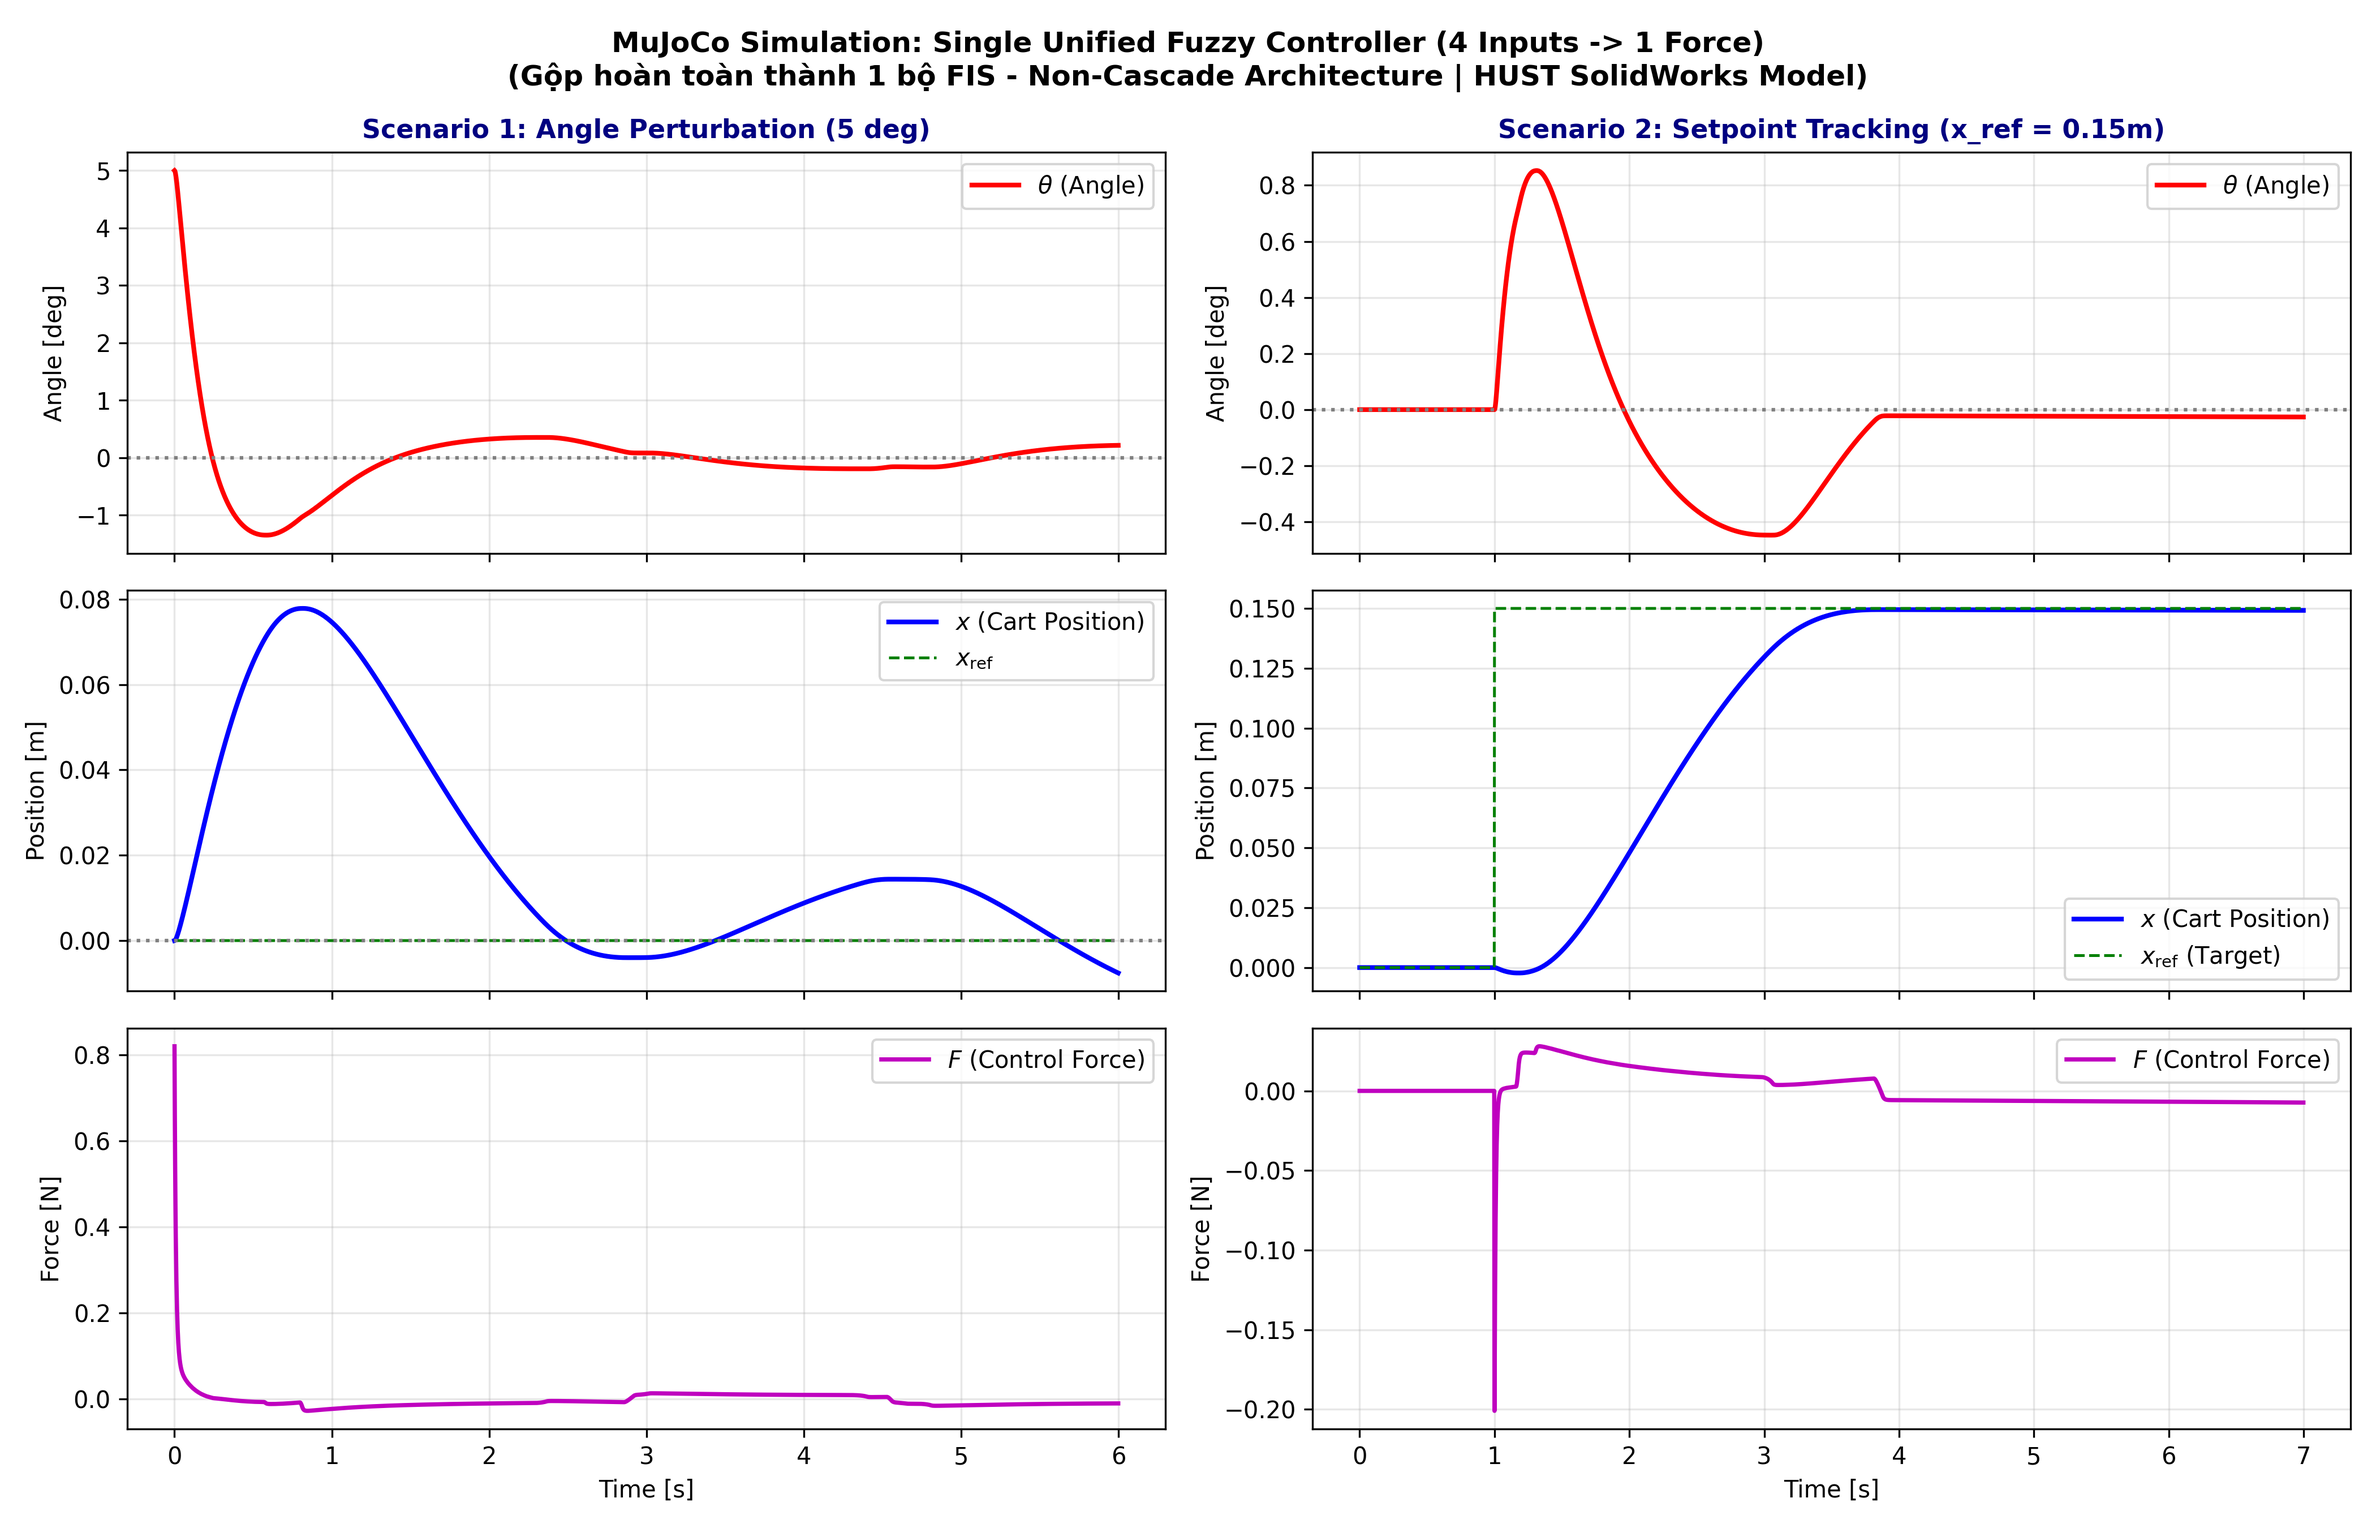
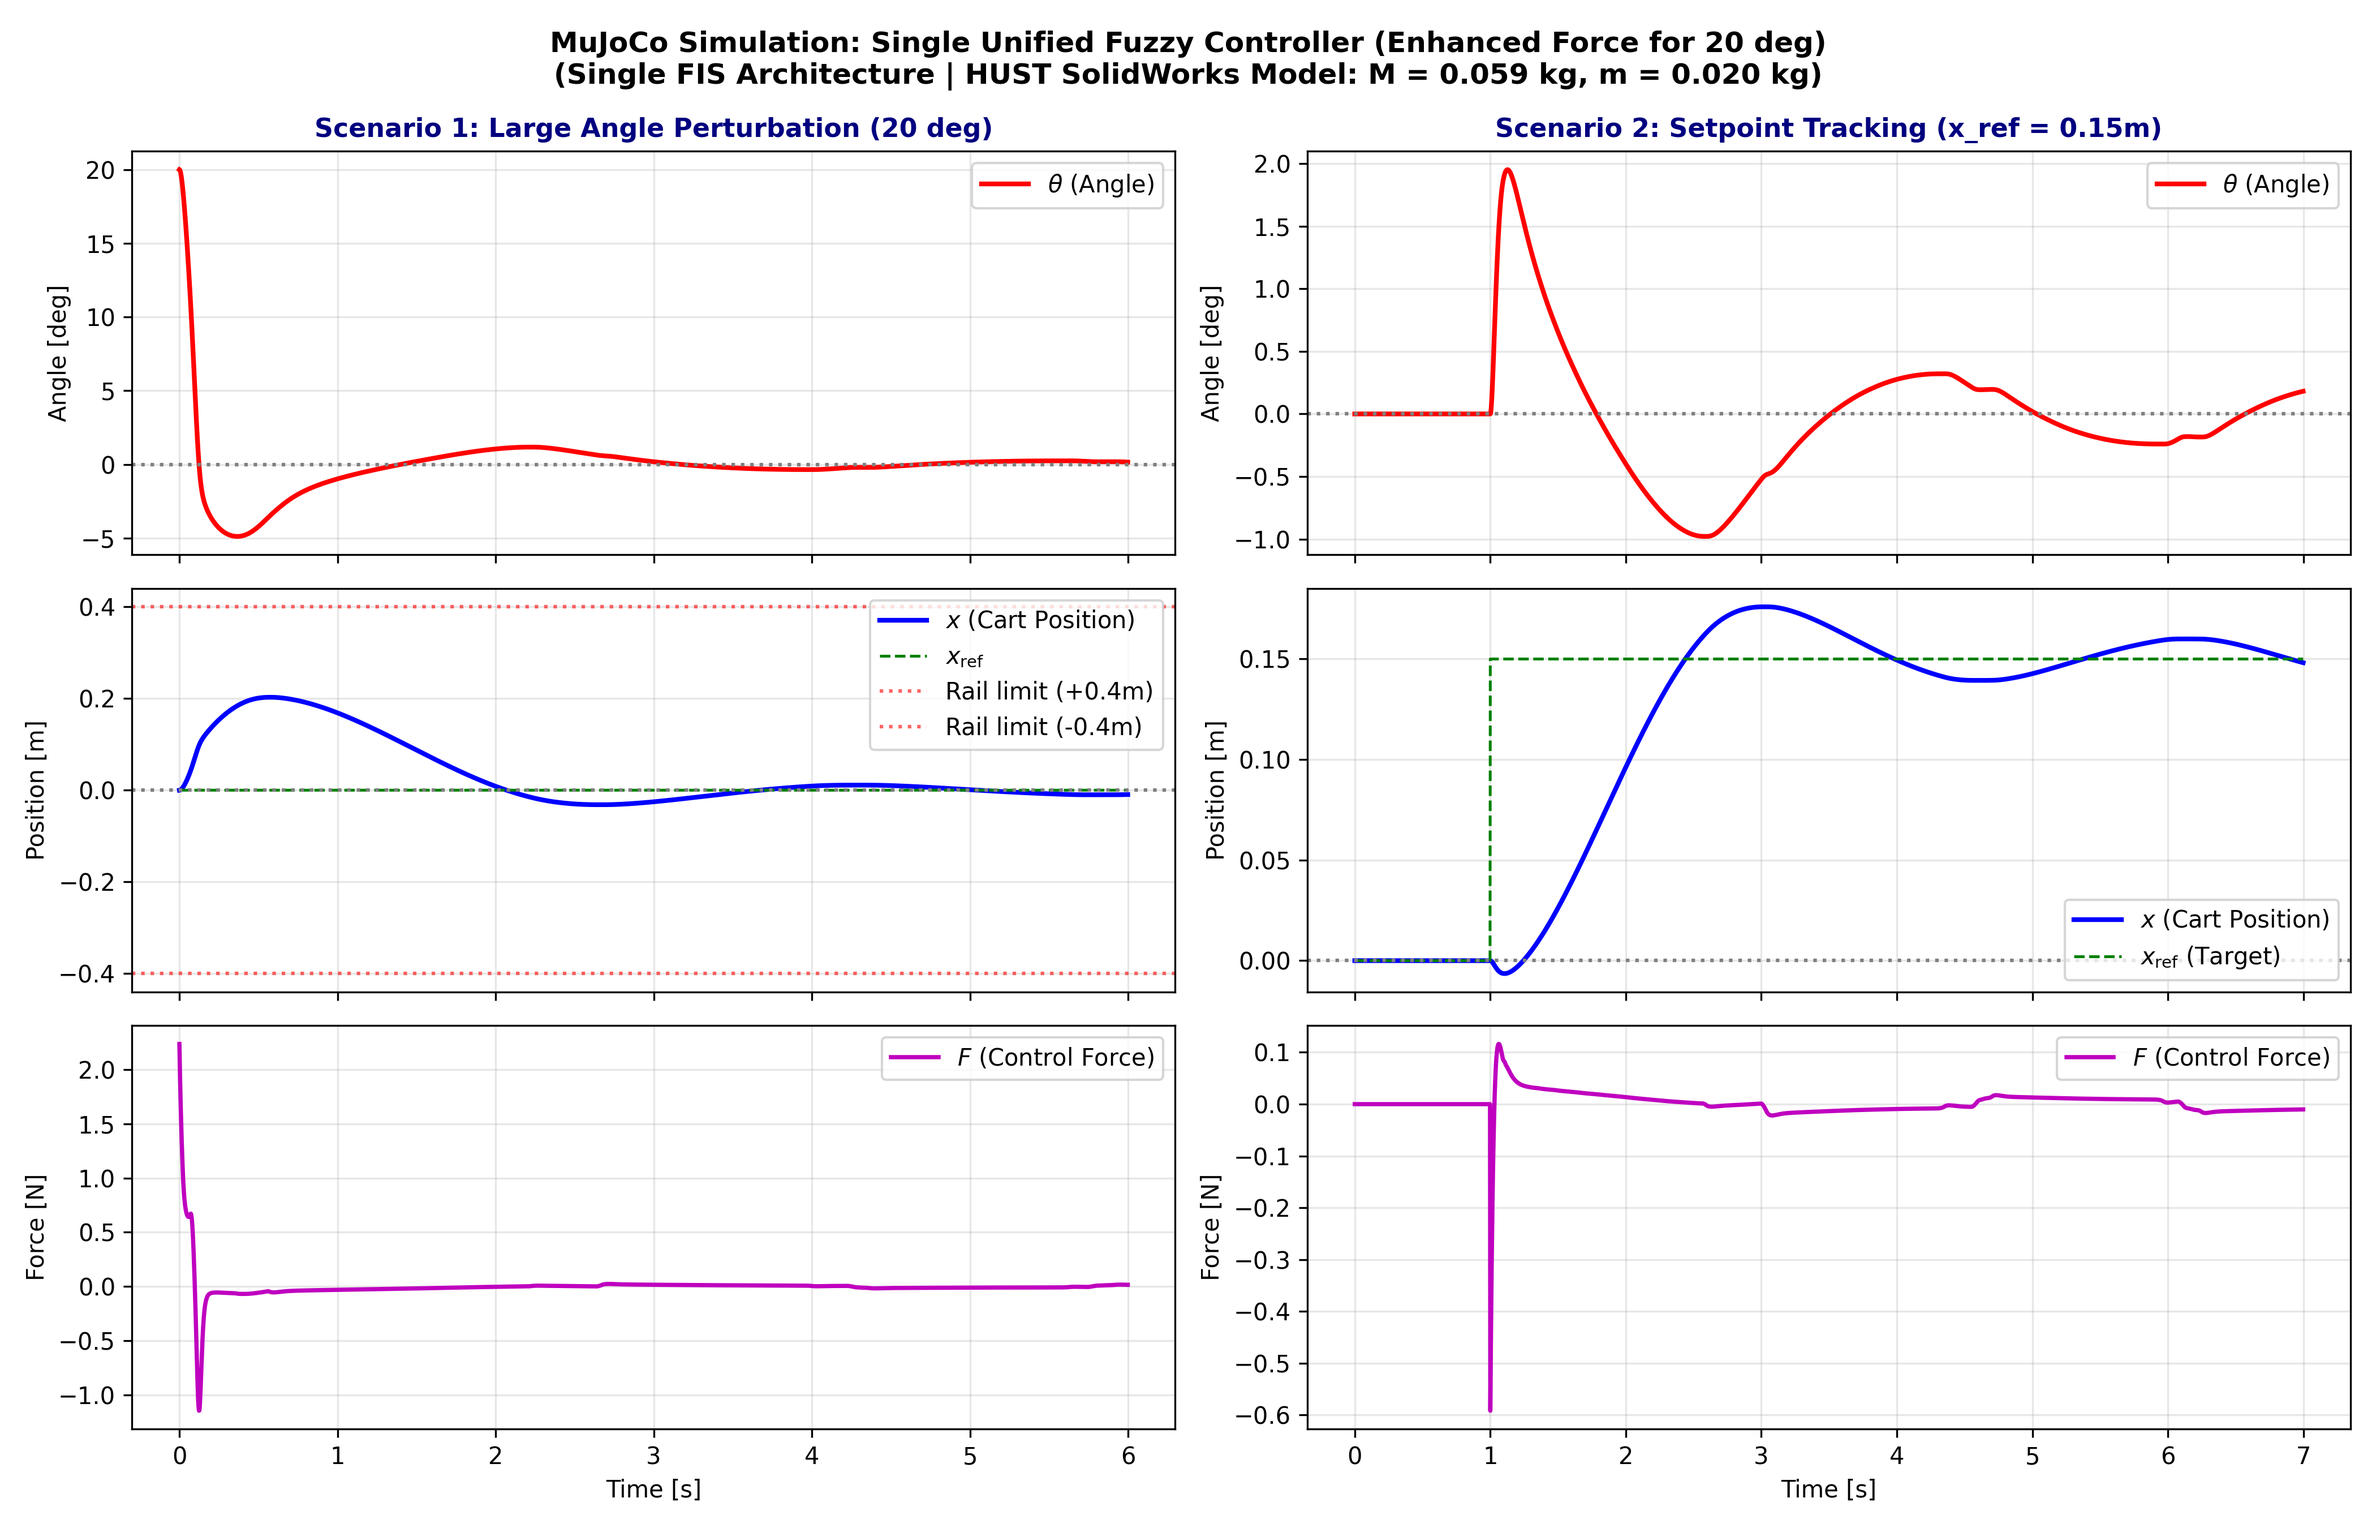
feat: Enhance force authority to recover from 20-25 deg initial tilt (Single Unified FIS)

diff --git a/cartpole_single_fuzzy.m b/cartpole_single_fuzzy.m
@@ -24,17 +24,17 @@ cpFIS = mamfis(...
     'AggregationMethod', 'sum', ...
     'DefuzzificationMethod', 'centroid');
 
-%% 2. Khai báo Input 1: Theta (rad) - Góc nghiêng con lắc
+%% 2. Khai báo Input 1: Theta (rad) - Góc nghiêng con lắc (Mở rộng cho góc lớn đến 20-25 độ)
 cpFIS.Inputs(1).Name = 'Theta';
 cpFIS.Inputs(1).Range = [-pi, pi];
 
 cpFIS.Inputs(1).MembershipFunctions(1).Name = 'Negative';
 cpFIS.Inputs(1).MembershipFunctions(1).Type = 'zmf';
-cpFIS.Inputs(1).MembershipFunctions(1).Parameters = [-0.15, 0.15];
+cpFIS.Inputs(1).MembershipFunctions(1).Parameters = [-0.20, 0.20];
 
 cpFIS.Inputs(1).MembershipFunctions(2).Name = 'Positive';
 cpFIS.Inputs(1).MembershipFunctions(2).Type = 'smf';
-cpFIS.Inputs(1).MembershipFunctions(2).Parameters = [-0.15, 0.15];
+cpFIS.Inputs(1).MembershipFunctions(2).Parameters = [-0.20, 0.20];
 
 %% 3. Khai báo Input 2: Theta_dot (rad/s) - Vận tốc góc con lắc
 cpFIS.Inputs(2).Name = 'Theta_dot';
@@ -42,11 +42,11 @@ cpFIS.Inputs(2).Range = [-15, 15];
 
 cpFIS.Inputs(2).MembershipFunctions(1).Name = 'Negative';
 cpFIS.Inputs(2).MembershipFunctions(1).Type = 'zmf';
-cpFIS.Inputs(2).MembershipFunctions(1).Parameters = [-2.5, 2.5];
+cpFIS.Inputs(2).MembershipFunctions(1).Parameters = [-3.5, 3.5];
 
 cpFIS.Inputs(2).MembershipFunctions(2).Name = 'Positive';
 cpFIS.Inputs(2).MembershipFunctions(2).Type = 'smf';
-cpFIS.Inputs(2).MembershipFunctions(2).Parameters = [-2.5, 2.5];
+cpFIS.Inputs(2).MembershipFunctions(2).Parameters = [-3.5, 3.5];
 
 %% 4. Khai báo Input 3: x (m) - Sai số vị trí xe (x - x_ref)
 cpFIS.Inputs(3).Name = 'x';
@@ -72,45 +72,43 @@ cpFIS.Inputs(4).MembershipFunctions(2).Name = 'Positive';
 cpFIS.Inputs(4).MembershipFunctions(2).Type = 'smf';
 cpFIS.Inputs(4).MembershipFunctions(2).Parameters = [-0.5, 0.5];
 
-%% 6. Khai báo Output: Force (N) - Lực tác động lên xe
+%% 6. Khai báo Output: Force (N) - Tăng lực điều khiển đáp ứng góc 20 độ
 cpFIS.Outputs(1).Name = 'Force';
-cpFIS.Outputs(1).Range = [-10, 10];
+cpFIS.Outputs(1).Range = [-12, 12];
 
-% Negative Large (-8 N): Lực hãm / đẩy cực mạnh
+% Negative Large (-10 N): Lực hãm / đẩy cực mạnh (toàn tải động cơ)
 cpFIS.Outputs(1).MembershipFunctions(1).Name = 'NL';
 cpFIS.Outputs(1).MembershipFunctions(1).Type = 'gbellmf';
-cpFIS.Outputs(1).MembershipFunctions(1).Parameters = [3.0, 2.0, -8.0];
+cpFIS.Outputs(1).MembershipFunctions(1).Parameters = [3.0, 2.0, -10.0];
 
-% Negative Medium (-3.5 N): Lực vừa
+% Negative Medium (-7 N): Lực phản xạ góc mạnh
 cpFIS.Outputs(1).MembershipFunctions(2).Name = 'NM';
 cpFIS.Outputs(1).MembershipFunctions(2).Type = 'gbellmf';
-cpFIS.Outputs(1).MembershipFunctions(2).Parameters = [2.0, 2.0, -3.5];
+cpFIS.Outputs(1).MembershipFunctions(2).Parameters = [2.5, 2.0, -7.0];
 
-% Positive Medium (+3.5 N): Lực vừa
+% Positive Medium (+7 N): Lực phản xạ góc mạnh
 cpFIS.Outputs(1).MembershipFunctions(3).Name = 'PM';
 cpFIS.Outputs(1).MembershipFunctions(3).Type = 'gbellmf';
-cpFIS.Outputs(1).MembershipFunctions(3).Parameters = [2.0, 2.0, 3.5];
+cpFIS.Outputs(1).MembershipFunctions(3).Parameters = [2.5, 2.0, 7.0];
 
-% Positive Large (+8 N): Lực hãm / đẩy cực mạnh
+% Positive Large (+10 N): Lực hãm / đẩy cực mạnh (toàn tải động cơ)
 cpFIS.Outputs(1).MembershipFunctions(4).Name = 'PL';
 cpFIS.Outputs(1).MembershipFunctions(4).Type = 'gbellmf';
-cpFIS.Outputs(1).MembershipFunctions(4).Parameters = [3.0, 2.0, 8.0];
+cpFIS.Outputs(1).MembershipFunctions(4).Parameters = [3.0, 2.0, 10.0];
 
 %% 7. Tập luật điều khiển hợp nhất (Unified Rule Base)
 % Nguyên lý vật lý:
-% - Nhóm góc (Theta, Theta_dot): Ưu tiên cao nhất (Weight = 1.0) giữ vững con lắc.
-% - Nhóm vị trí (x, x_dot): Ưu tiên vừa (Weight = 0.25). 
-%   Khi xe ở bên phải (x > 0), đẩy xe sang phải (PM) làm con lắc nghiêng sang trái,
-%   sau đó nhóm góc kéo xe chạy sang trái về lại gốc 0 (Cơ chế Nghiêng Để Lái hợp nhất).
+% - Nhóm góc (Theta, Theta_dot): Ưu tiên cao nhất (Weight = 1.0) giữ vững con lắc ngay cả ở 20 độ.
+% - Nhóm vị trí (x, x_dot): Trọng số phối hợp (Weight = 0.35) kéo xe giữ trong tầm ray (-0.4m, +0.4m).
 rules = [...
     "If Theta is Negative then Force is NM (1.0)"; ...
     "If Theta is Positive then Force is PM (1.0)"; ...
     "If Theta_dot is Negative then Force is NL (1.0)"; ...
     "If Theta_dot is Positive then Force is PL (1.0)"; ...
-    "If x is Negative then Force is NM (0.25)"; ...
-    "If x is Positive then Force is PM (0.25)"; ...
-    "If x_dot is Negative then Force is NL (0.25)"; ...
-    "If x_dot is Positive then Force is PL (0.25)"];
+    "If x is Negative then Force is NM (0.35)"; ...
+    "If x is Positive then Force is PM (0.35)"; ...
+    "If x_dot is Negative then Force is NL (0.35)"; ...
+    "If x_dot is Positive then Force is PL (0.35)"];
 
 cpFIS = addRule(cpFIS, rules);
 

diff --git a/run_simulation_single_fuzzy.py b/run_simulation_single_fuzzy.py
@@ -16,15 +16,15 @@ def run_simulation(scenario="perturbation", duration=6.0):
     ctrl = SingleUnifiedFuzzyController()
 
     if scenario == "perturbation":
-        # 5 degrees initial tilt (0.087 rad)
-        d.qpos[1] = np.deg2rad(5.0)
+        # 20 degrees initial tilt (0.349 rad)
+        d.qpos[1] = np.deg2rad(20.0)
         x_target_func = lambda t: 0.0
     elif scenario == "step":
         # Start at 0, step to 0.15 m at t = 1.0s
         d.qpos[1] = 0.0
         x_target_func = lambda t: 0.15 if t >= 1.0 else 0.0
     else:
-        d.qpos[1] = np.deg2rad(5.0)
+        d.qpos[1] = np.deg2rad(20.0)
         x_target_func = lambda t: 0.0
 
     t_vec = []
@@ -63,17 +63,17 @@ def run_simulation(scenario="perturbation", duration=6.0):
     }
 
 def generate_plots():
-    print("Running MuJoCo simulations with Single Unified Fuzzy Controller...")
+    print("Running MuJoCo simulations with Single Unified Fuzzy Controller (20 deg recovery)...")
     res1 = run_simulation("perturbation", duration=6.0)
     res2 = run_simulation("step", duration=7.0)
 
     fig, axs = plt.subplots(3, 2, figsize=(14, 9), sharex='col')
-    fig.suptitle("MuJoCo Simulation: Single Unified Fuzzy Controller (4 Inputs -> 1 Force)\n"
-                 "(Gộp hoàn toàn thành 1 bộ FIS - Non-Cascade Architecture | HUST SolidWorks Model)",
+    fig.suptitle("MuJoCo Simulation: Single Unified Fuzzy Controller (Enhanced Force for 20 deg)\n"
+                 "(Single FIS Architecture | HUST SolidWorks Model: M = 0.059 kg, m = 0.020 kg)",
                  fontsize=12, fontweight='bold')
 
-    # Column 1: Initial Perturbation (Theta_0 = 5 deg)
-    axs[0, 0].set_title("Scenario 1: Angle Perturbation (5 deg)", fontsize=11, fontweight='bold', color='navy')
+    # Column 1: Large Initial Perturbation (Theta_0 = 20 deg)
+    axs[0, 0].set_title("Scenario 1: Large Angle Perturbation (20 deg)", fontsize=11, fontweight='bold', color='navy')
     axs[0, 0].plot(res1['t'], res1['theta'], 'r-', lw=2, label=r'$\theta$ (Angle)')
     axs[0, 0].axhline(0, color='gray', ls=':')
     axs[0, 0].set_ylabel("Angle [deg]")
@@ -83,6 +83,8 @@ def generate_plots():
     axs[1, 0].plot(res1['t'], res1['x'], 'b-', lw=2, label=r'$x$ (Cart Position)')
     axs[1, 0].plot(res1['t'], res1['x_ref'], 'g--', lw=1.2, label=r'$x_{\rm ref}$')
     axs[1, 0].axhline(0, color='gray', ls=':')
+    axs[1, 0].axhline(0.40, color='red', ls=':', alpha=0.6, label='Rail limit (+0.4m)')
+    axs[1, 0].axhline(-0.40, color='red', ls=':', alpha=0.6, label='Rail limit (-0.4m)')
     axs[1, 0].set_ylabel("Position [m]")
     axs[1, 0].grid(True, alpha=0.3)
     axs[1, 0].legend(loc='upper right')
@@ -103,6 +105,7 @@ def generate_plots():
 
     axs[1, 1].plot(res2['t'], res2['x'], 'b-', lw=2, label=r'$x$ (Cart Position)')
     axs[1, 1].plot(res2['t'], res2['x_ref'], 'g--', lw=1.2, label=r'$x_{\rm ref}$ (Target)')
+    axs[1, 1].axhline(0, color='gray', ls=':')
     axs[1, 1].set_ylabel("Position [m]")
     axs[1, 1].grid(True, alpha=0.3)
     axs[1, 1].legend(loc='lower right')

diff --git a/fuzzy_single_controller.py b/fuzzy_single_controller.py
@@ -28,22 +28,22 @@ def gbellmf(x, a, b, c):
 
 class SingleUnifiedFuzzyController:
     def __init__(self, n_points=301):
-        self.F_grid = np.linspace(-10.0, 10.0, n_points)
-        # Precompute output membership functions
-        self.mf_NL = gbellmf(self.F_grid, 3.0, 2.0, -8.0)
-        self.mf_NM = gbellmf(self.F_grid, 2.0, 2.0, -3.5)
-        self.mf_PM = gbellmf(self.F_grid, 2.0, 2.0,  3.5)
-        self.mf_PL = gbellmf(self.F_grid, 3.0, 2.0,  8.0)
+        self.F_grid = np.linspace(-12.0, 12.0, n_points)
+        # Precompute output membership functions (Increased force authority: +/-7N and +/-10N)
+        self.mf_NL = gbellmf(self.F_grid, 3.0, 2.0, -10.0)
+        self.mf_NM = gbellmf(self.F_grid, 2.5, 2.0,  -7.0)
+        self.mf_PM = gbellmf(self.F_grid, 2.5, 2.0,   7.0)
+        self.mf_PL = gbellmf(self.F_grid, 3.0, 2.0,  10.0)
 
     def compute(self, theta, theta_dot, x, x_dot, x_ref=0.0):
         e_x = x - x_ref
 
-        # 1. Fuzzification
-        mu_th_neg = zmf(theta, -0.15, 0.15)
-        mu_th_pos = smf(theta, -0.15, 0.15)
+        # 1. Fuzzification (Expanded range for large angle balance up to 20-25 deg)
+        mu_th_neg = zmf(theta, -0.20, 0.20)
+        mu_th_pos = smf(theta, -0.20, 0.20)
 
-        mu_thd_neg = zmf(theta_dot, -2.5, 2.5)
-        mu_thd_pos = smf(theta_dot, -2.5, 2.5)
+        mu_thd_neg = zmf(theta_dot, -3.5, 3.5)
+        mu_thd_pos = smf(theta_dot, -3.5, 3.5)
 
         mu_x_neg = zmf(e_x, -0.25, 0.25)
         mu_x_pos = smf(e_x, -0.25, 0.25)
@@ -58,11 +58,11 @@ class SingleUnifiedFuzzyController:
         clip3 = 1.0 * np.minimum(mu_thd_neg, self.mf_NL)
         clip4 = 1.0 * np.minimum(mu_thd_pos, self.mf_PL)
 
-        # Position rules (Weight = 0.25)
-        clip5 = 0.25 * np.minimum(mu_x_neg, self.mf_NM)
-        clip6 = 0.25 * np.minimum(mu_x_pos, self.mf_PM)
-        clip7 = 0.25 * np.minimum(mu_xd_neg, self.mf_NL)
-        clip8 = 0.25 * np.minimum(mu_xd_pos, self.mf_PL)
+        # Position rules (Weight = 0.35)
+        clip5 = 0.35 * np.minimum(mu_x_neg, self.mf_NM)
+        clip6 = 0.35 * np.minimum(mu_x_pos, self.mf_PM)
+        clip7 = 0.35 * np.minimum(mu_xd_neg, self.mf_NL)
+        clip8 = 0.35 * np.minimum(mu_xd_pos, self.mf_PL)
 
         # 3. Aggregation (Sum)
         agg = clip1 + clip2 + clip3 + clip4 + clip5 + clip6 + clip7 + clip8
@@ -74,7 +74,7 @@ class SingleUnifiedFuzzyController:
         else:
             force = 0.0
 
-        return force
+        return float(np.clip(force, -10.0, 10.0))
 
 if __name__ == "__main__":
     ctrl = SingleUnifiedFuzzyController()

diff --git a/simulate_test.py b/simulate_test.py
@@ -70,12 +70,17 @@ def run_simulation(duration=5.0, theta_init_deg=5.0, x_ref=0.0, mode="single"):
     return True, (t_hist, x_hist, theta_hist, f_hist)
 
 if __name__ == "__main__":
-    # Test Single Unified Controller with 5 degrees initial tilt
+    # Test 1: Single Unified Controller with 5 degrees initial tilt
     print("\n--- Test 1: Single Unified Controller (theta_0 = 5 deg) ---")
-    success, res = run_simulation(duration=5.0, theta_init_deg=5.0, x_ref=0.0, mode="single")
-    print("Success:", success)
+    success1, res1 = run_simulation(duration=5.0, theta_init_deg=5.0, x_ref=0.0, mode="single")
+    print("Success:", success1)
 
-    # Test Single Unified Controller with 1 degree initial tilt
-    print("\n--- Test 2: Single Unified Controller (theta_0 = 1 deg) ---")
-    success2, res2 = run_simulation(duration=5.0, theta_init_deg=1.0, x_ref=0.0, mode="single")
+    # Test 2: Single Unified Controller with 20 degrees initial tilt (User requirement)
+    print("\n--- Test 2: Single Unified Controller (theta_0 = 20 deg) ---")
+    success2, res2 = run_simulation(duration=5.0, theta_init_deg=20.0, x_ref=0.0, mode="single")
     print("Success:", success2)
+
+    # Test 3: Single Unified Controller with 22 degrees initial tilt (Extreme limit test)
+    print("\n--- Test 3: Single Unified Controller (theta_0 = 22 deg) ---")
+    success3, res3 = run_simulation(duration=5.0, theta_init_deg=22.0, x_ref=0.0, mode="single")
+    print("Success:", success3)

diff --git a/run_mujoco_viewer.py b/run_mujoco_viewer.py
@@ -21,8 +21,8 @@ def main():
     m = mujoco.MjModel.from_xml_path(MODEL_PATH)
     d = mujoco.MjData(m)
 
-    # Initial perturbation (e.g. 4 degrees)
-    d.qpos[1] = np.deg2rad(4.0)
+    # Initial perturbation: 20 degrees tilt (User specified large perturbation test)
+    d.qpos[1] = np.deg2rad(20.0)
 
     # Single Unified Fuzzy Controller (4 Inputs -> 1 Output Force)
     ctrl = SingleUnifiedFuzzyController()
